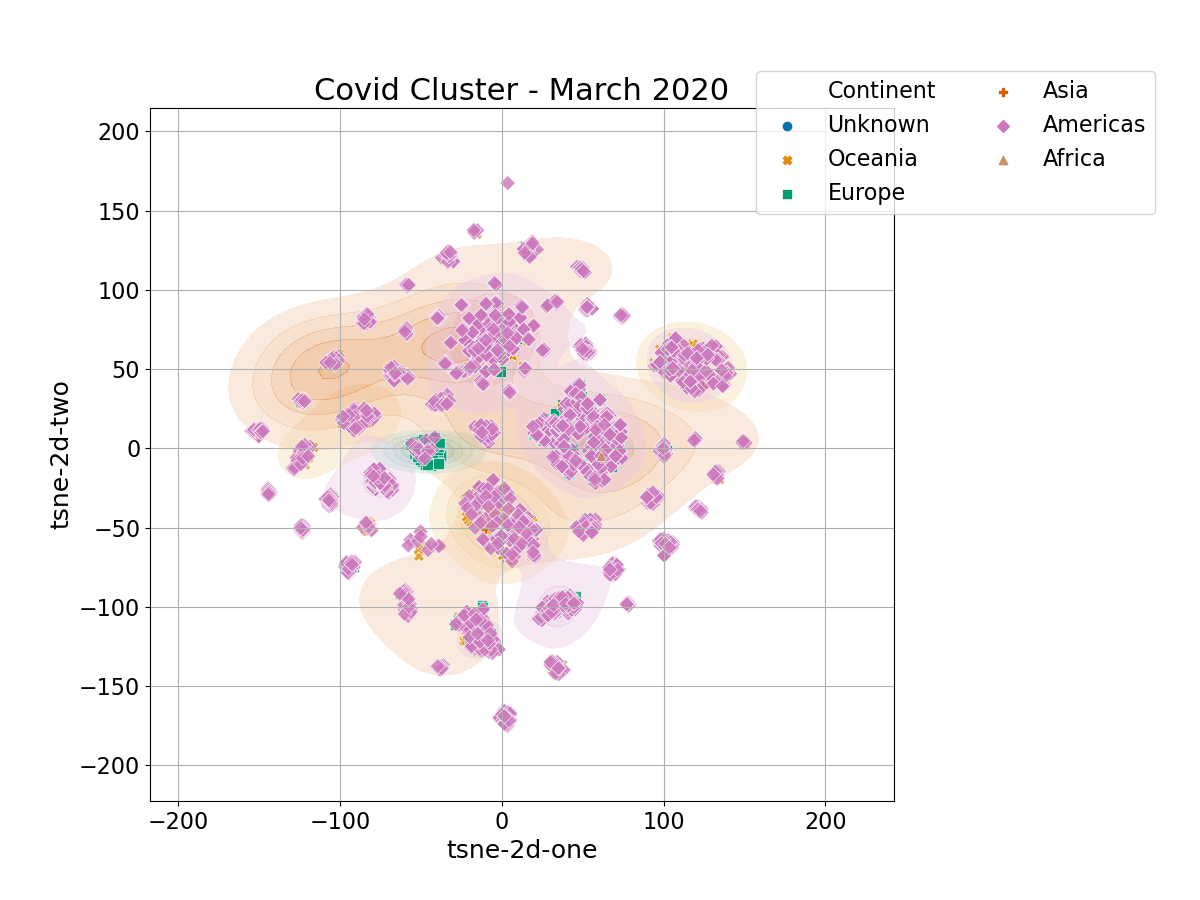
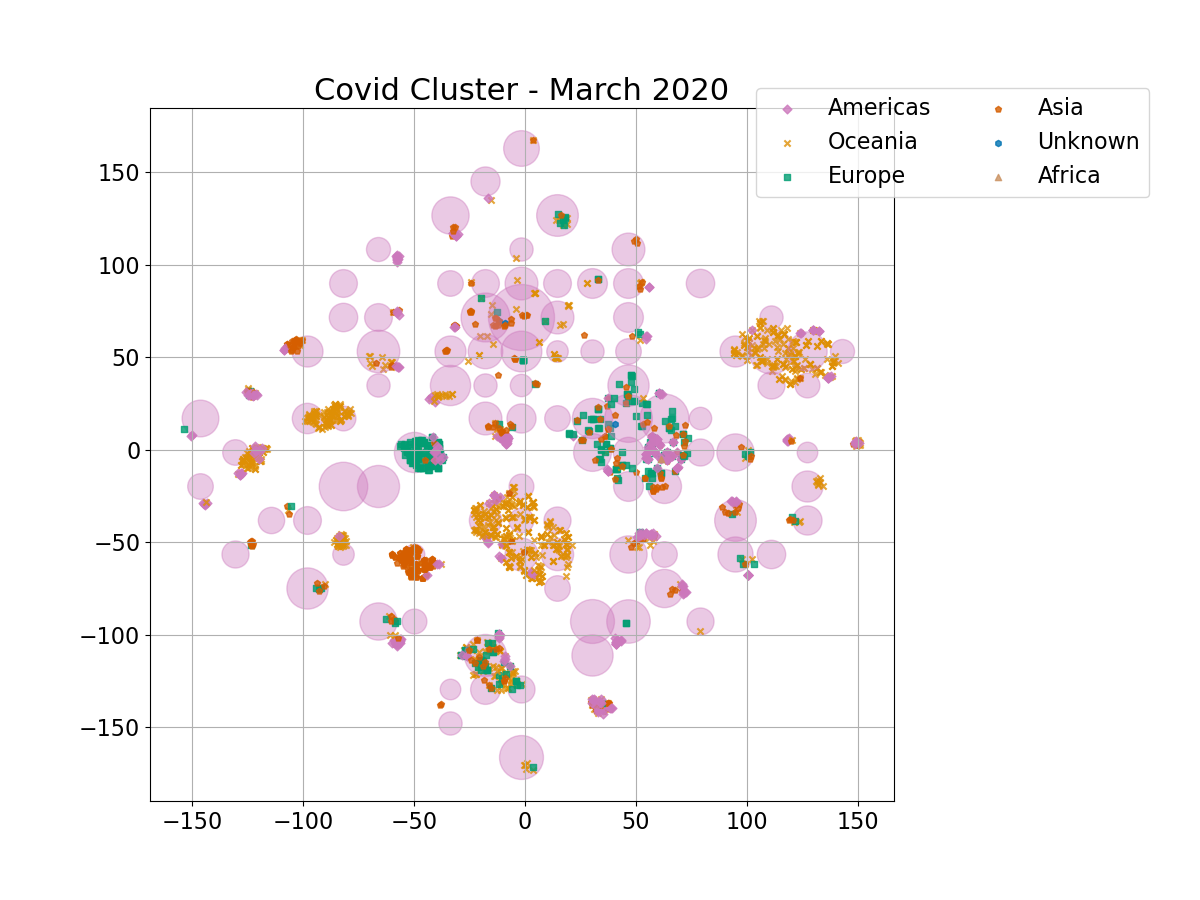
Experiment with density plots

diff --git a/pca_tsne.py b/pca_tsne.py
@@ -44,6 +44,7 @@ month_map = {
 # load data
 sf = "merged_50"
 df = pd.read_pickle(f'files/{sf}.pickle')
+df = df[:200]
 
 
 # add continents
@@ -59,7 +60,7 @@ for idx, row in df.iterrows():
     continent.append(map[location])
 
 df["Continent"] = continent
-df = df.sort_values(by=["Continent"], ascending=False)
+df = df.sort_values(by=["Continent"], ascending=True)
 
 # add countries
 countries = []
@@ -117,7 +118,7 @@ sns.scatterplot(
 
 if not os.path.isfile(f't_SNE-{sf}.pickle'):
     time_start = time.time()
-    tsne = TSNE(n_components=2, verbose=1, perplexity=20, n_iter=5000)
+    tsne = TSNE(n_components=2, verbose=1, perplexity=15, n_iter=5000)
     tsne_results = tsne.fit_transform(data) # use original data
     #tsne_results = tsne.fit_transform(pca_result) # use pca data
     print('t-SNE done! Time elapsed: {} seconds'.format(time.time()-time_start))
@@ -134,29 +135,90 @@ df['tsne-2d-two'] = tsne_results[:,1]
 # remove countries with less than n data points
 #df = df.groupby('Geo_Location').filter(lambda x : len(x)>5)
 
-# get number of unique categories to choose graph colors
+#* get number of unique categories to choose graph colors
 month = 'March'
 month_df = df.loc[df['Month'] == month]
+
+month_df = df
+
 num_cats = len(df["Geo_Location"].unique())
 conts = month_df['Continent'].unique()
 num_conts = len(month_df["Continent"].unique())
-num_months = len(df["Month"].unique())
+
 color = sns.color_palette("colorblind", num_conts)
-# plot
-plt.figure(figsize=(12,9))
+
+#* Create color map
+color_map = {}
 for i, cont in enumerate(conts):
-    cm = color[i]
-    tmp_df = month_df.loc[month_df['Continent'] == cont]
-    if len(tmp_df['tsne-2d-one'])>2:
-        print(cont)
-        sns.kdeplot(data=tmp_df['tsne-2d-one'], 
-                    data2=tmp_df['tsne-2d-two'],
-                    shade=True,
-                    shade_lowest=False,
-                    alpha=0.4,
-                    color=cm,
-                    n_levels=5
-        )
+    color_map[cont] = color[i]
+continent_styles = {
+    'Americas' : "x", # Cirlce
+    'Europe' : "P",   # Triangle
+    'Asia' :  "s", # Plus
+    'Oceania' : "D", # Cross
+    'Africa' : "o", # Diamond
+    'Unknown' : "^"
+}
+
+#* plot
+fig, ax = plt.subplots(figsize=(15,12))
+grid = np.array(
+    [
+        np.linspace(month_df['tsne-2d-one'].min(), month_df['tsne-2d-one'].max(),20),
+        np.linspace(month_df['tsne-2d-two'].min(), month_df['tsne-2d-two'].max(),20),
+    ]
+)
+print(grid.shape)
+dx = grid[0,1] - grid[0,0]
+dy = grid[1,1] - grid[1,0]
+
+#* Iterate over grid points, and calculate dominant 
+added_labels = []
+# for i in range(grid.shape[1]-1):
+#     for j in range(grid.shape[1]-1):
+#         # Count the number of samples from each continent in each grid
+#         x = grid[0,i]
+#         y = grid[1,j]
+#         sub_df = month_df.loc[
+#             (month_df['tsne-2d-one'] >= x) & (month_df['tsne-2d-one'] <= x+dx) &
+#             (month_df['tsne-2d-two'] >= y) & (month_df['tsne-2d-two'] <= y+dy)
+#             ]
+#         if len(sub_df) > 0:
+#             unique, counts = np.unique(sub_df['Continent'], return_counts=True)
+#             dcont = ''
+#             size = counts[0]
+
+#             if size > 10:
+#                 # Plot dominant continent as blob if there are more than 20 of them in the block
+#                 dcont = unique[0]
+#                 ax.scatter(
+#                     x=x+dx/2, 
+#                     y=y+dy/2, 
+#                     color=color_map[dcont],
+#                     alpha=0.4,
+#                     marker="o",
+#                     s=size*20
+#                 )
+#             # Scatter other points
+#             for idx, c_df in sub_df.loc[sub_df['Continent'] != dcont].iterrows():
+#                 c = c_df['Continent']
+#                 if not c in added_labels:
+#                     l = c
+#                     added_labels.append(c)
+#                 else: 
+#                     l = ''
+#                 ax.scatter(
+#                     x=c_df['tsne-2d-one'],
+#                     y=c_df['tsne-2d-two'],
+#                     color=color_map[c],
+#                     alpha=0.8,
+#                     marker=continent_styles[c],
+#                     edgecolor='w',
+#                     s=60,
+#                     label=l
+#                 )
+
+
 sns.scatterplot(
     x="tsne-2d-one", y="tsne-2d-two",
     #palette=sns.cubehelix_palette(num_cats),
@@ -175,18 +237,18 @@ sns.scatterplot(
 
 
 # Remove old legend
-ax = plt.gca()
+# ax = plt.gca()
 ax.grid()
 handles, labels = ax.get_legend_handles_labels()
 ax.legend_ = None
-ax.set_title(f'Covid Cluster - {month} 2020')
+ax.set_title(f'Covid Cluster - Subsampled (200 seqs.) dataset 2020')
 # Shrink current axis by 20%
 box = ax.get_position()
 ax.set_position([box.x0, box.y0, box.width * 0.8, box.height])
 # Put a legend to the right of the current axis
-plt.legend(handles, labels, ncol=2, loc="center left", bbox_to_anchor=(0.8, 0.95))
+plt.legend(handles, labels, ncol=2, loc="center left", bbox_to_anchor=(0.8, 0.90))
 # plt.tight_layout()
-plt.savefig(f'figures/{month}_t_sne.png')
+plt.savefig(f'figures/200_t_sne.png')
 
 
 # plot based on countries/continents - colors from https://material.io/design/color/the-color-system.html#tools-for-picking-colors
@@ -259,34 +321,34 @@ country_map = {
 }
 
 # Run map back and pair each country with a color 
-fig, ax = plt.subplots(figsize=(8,6))
-last_continent = ""
-t = 0
-for idx, row in month_df.iterrows(): #! Note - monthdf
-    continent = row['Continent']
-    country = row['Country']
-    if not continent == last_continent:
-        plot_label = True
-        i = 0 # Reset index in the subcountry color map
-        last_continent = continent
-    else:
-        plot_label = False
-        i+=1
-    if country == 'Unknown':
-        color = "#4E342E" # Brown
-        style = '*'
-    else: 
-        color = country_map[continent][country]
-        style = continent_styles[continent]
-    # Plot
-    if plot_label:
-        ax.scatter(row['tsne-2d-one'], row['tsne-2d-two'], alpha=1, c=color, marker=style , label=f'{continent}')
-    else:
-        ax.scatter(row['tsne-2d-one'], row['tsne-2d-two'], marker=style, alpha=1, c=color)
-    t += 1
-ax.legend(loc='best')
-ax.set_xlabel('tsne dimension one')
-ax.set_ylabel('tsne dimension two')
-ax.set_title(f'Clustering of Continent/Country - {month} 2020')
-plt.tight_layout()
-plt.savefig(f'figures/{month}_continent_country.pdf')
+# fig, ax = plt.subplots(figsize=(8,6))
+# last_continent = ""
+# t = 0
+# for idx, row in month_df.iterrows(): #! Note - monthdf
+#     continent = row['Continent']
+#     country = row['Country']
+#     if not continent == last_continent:
+#         plot_label = True
+#         i = 0 # Reset index in the subcountry color map
+#         last_continent = continent
+#     else:
+#         plot_label = False
+#         i+=1
+#     if country == 'Unknown':
+#         color = "#4E342E" # Brown
+#         style = '*'
+#     else: 
+#         color = country_map[continent][country]
+#         style = continent_styles[continent]
+#     # Plot
+#     if plot_label:
+#         ax.scatter(row['tsne-2d-one'], row['tsne-2d-two'], alpha=1, c=color, marker=style , label=f'{continent}')
+#     else:
+#         ax.scatter(row['tsne-2d-one'], row['tsne-2d-two'], marker=style, alpha=1, c=color)
+#     t += 1
+# ax.legend(loc='best')
+# ax.set_xlabel('tsne dimension one')
+# ax.set_ylabel('tsne dimension two')
+# ax.set_title(f'Clustering of Continent/Country - {month} 2020')
+# plt.tight_layout()
+# plt.savefig(f'figures/{month}_continent_country.pdf')
